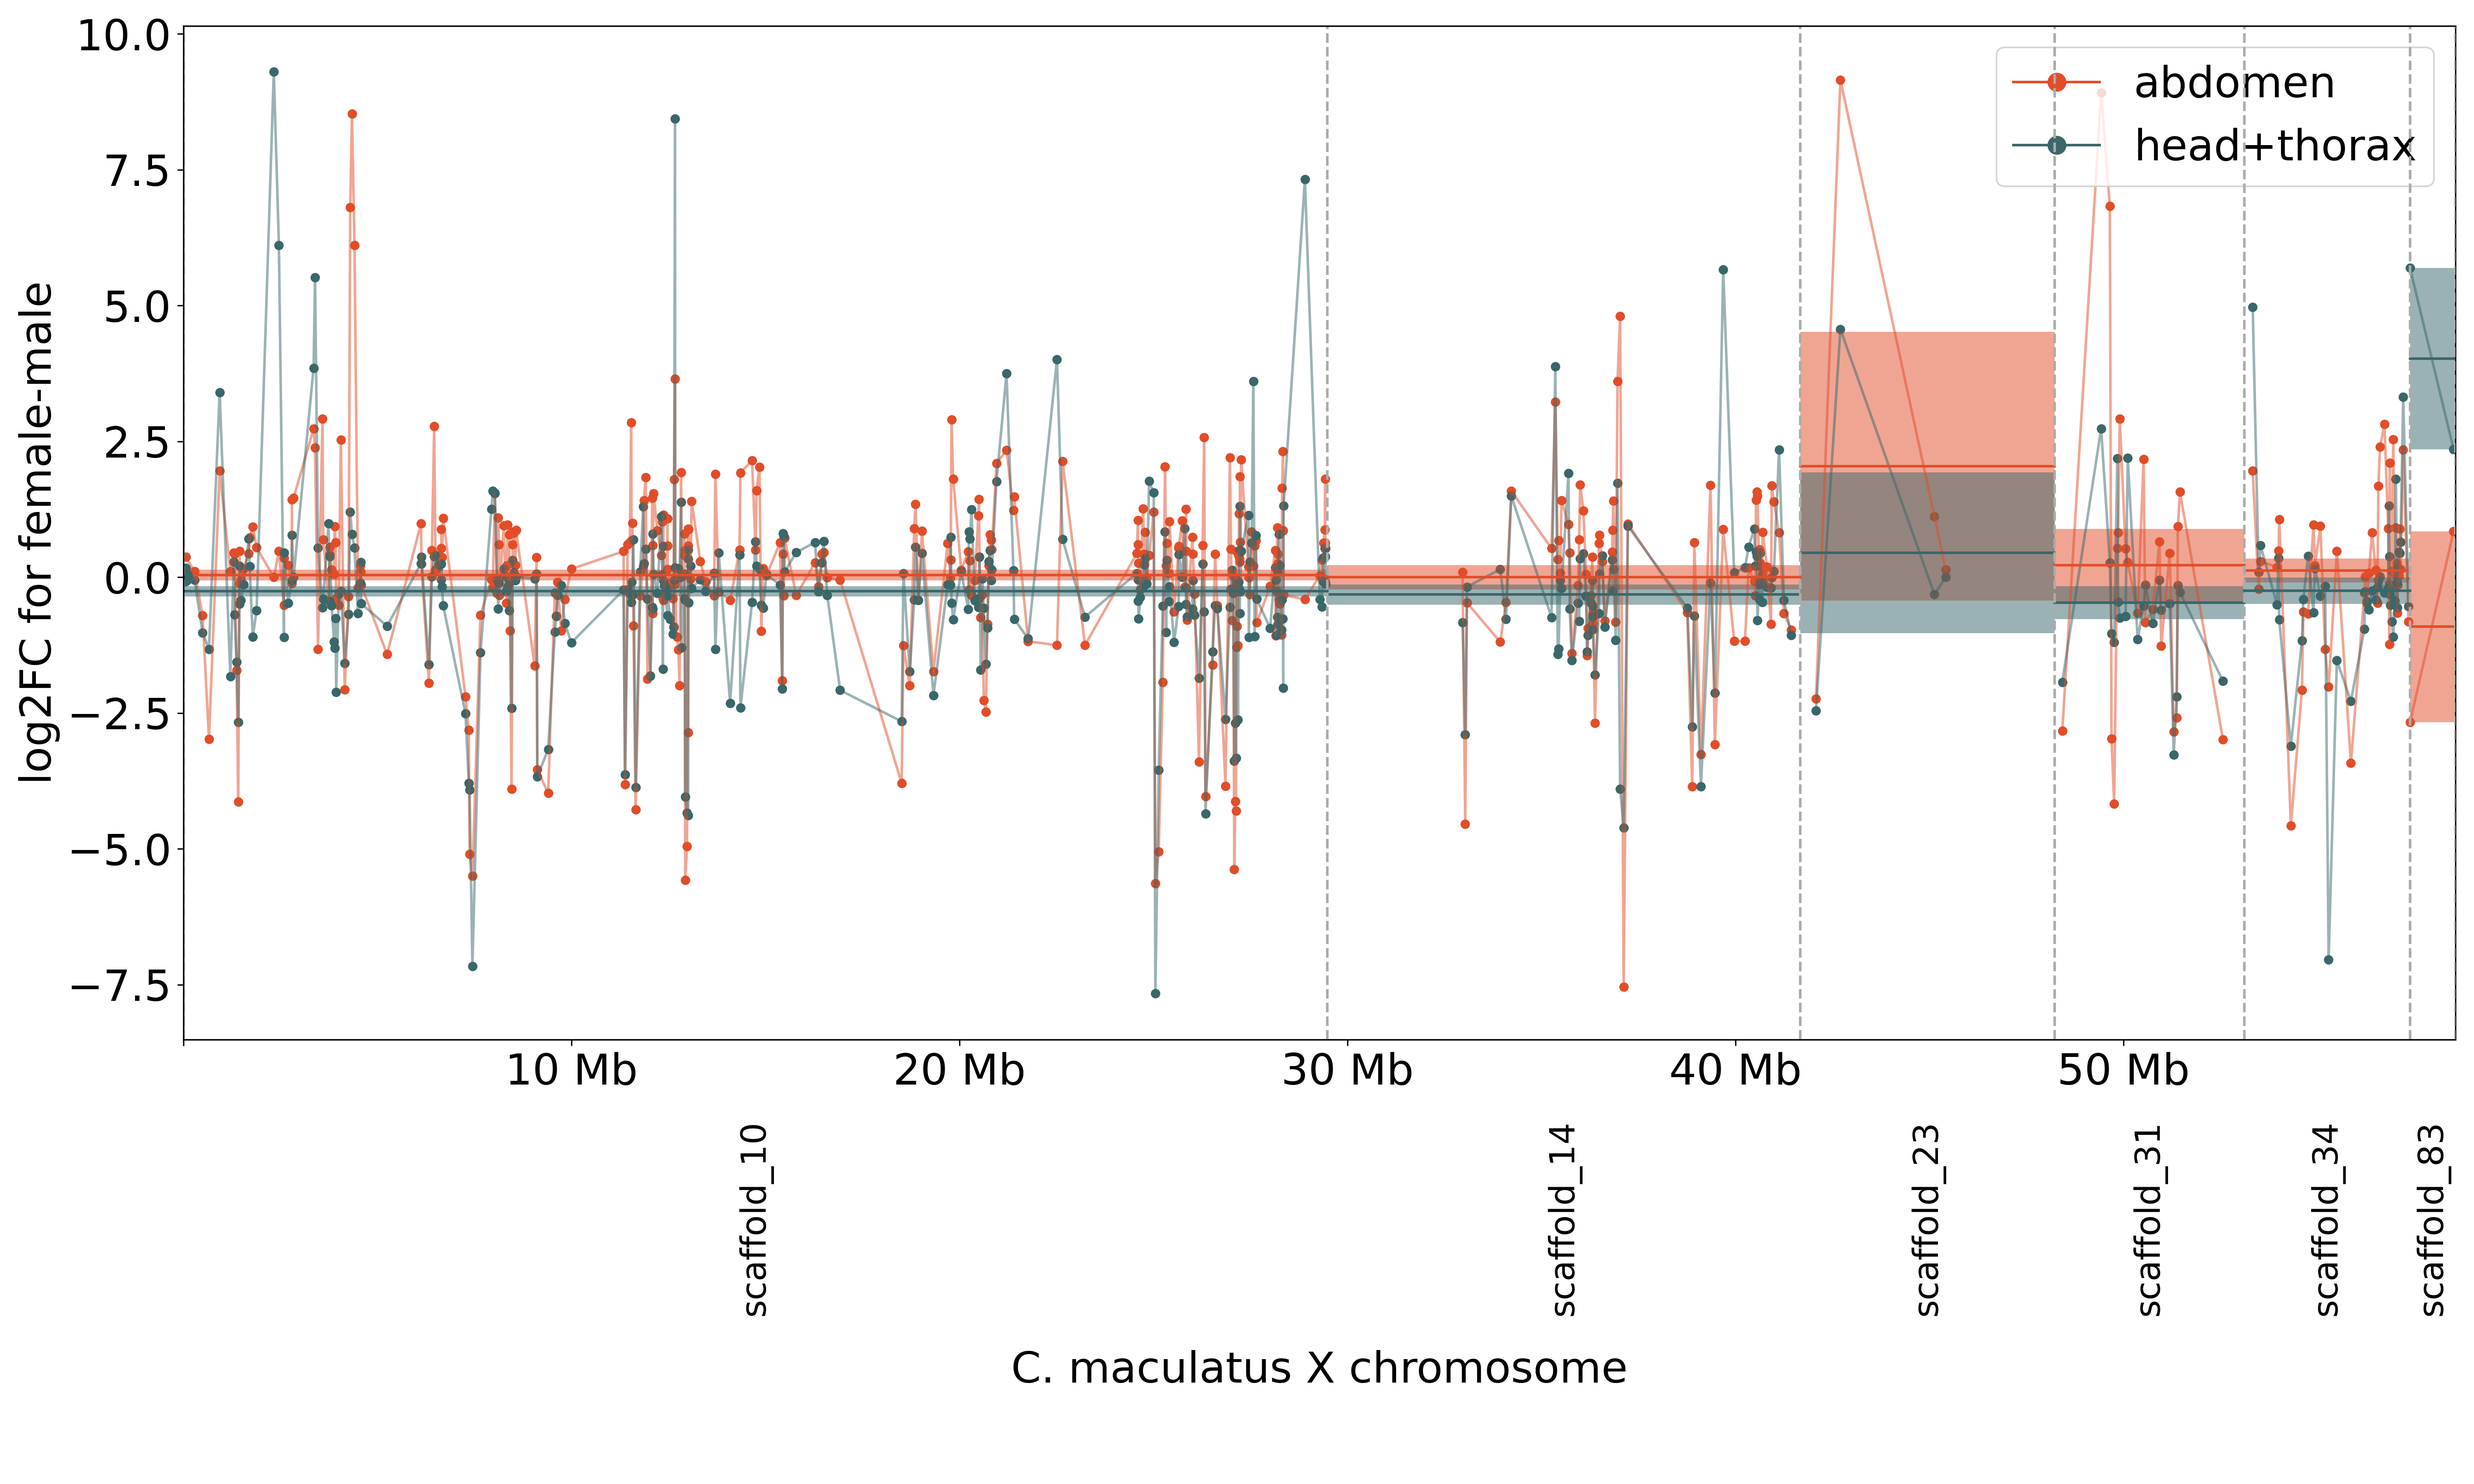
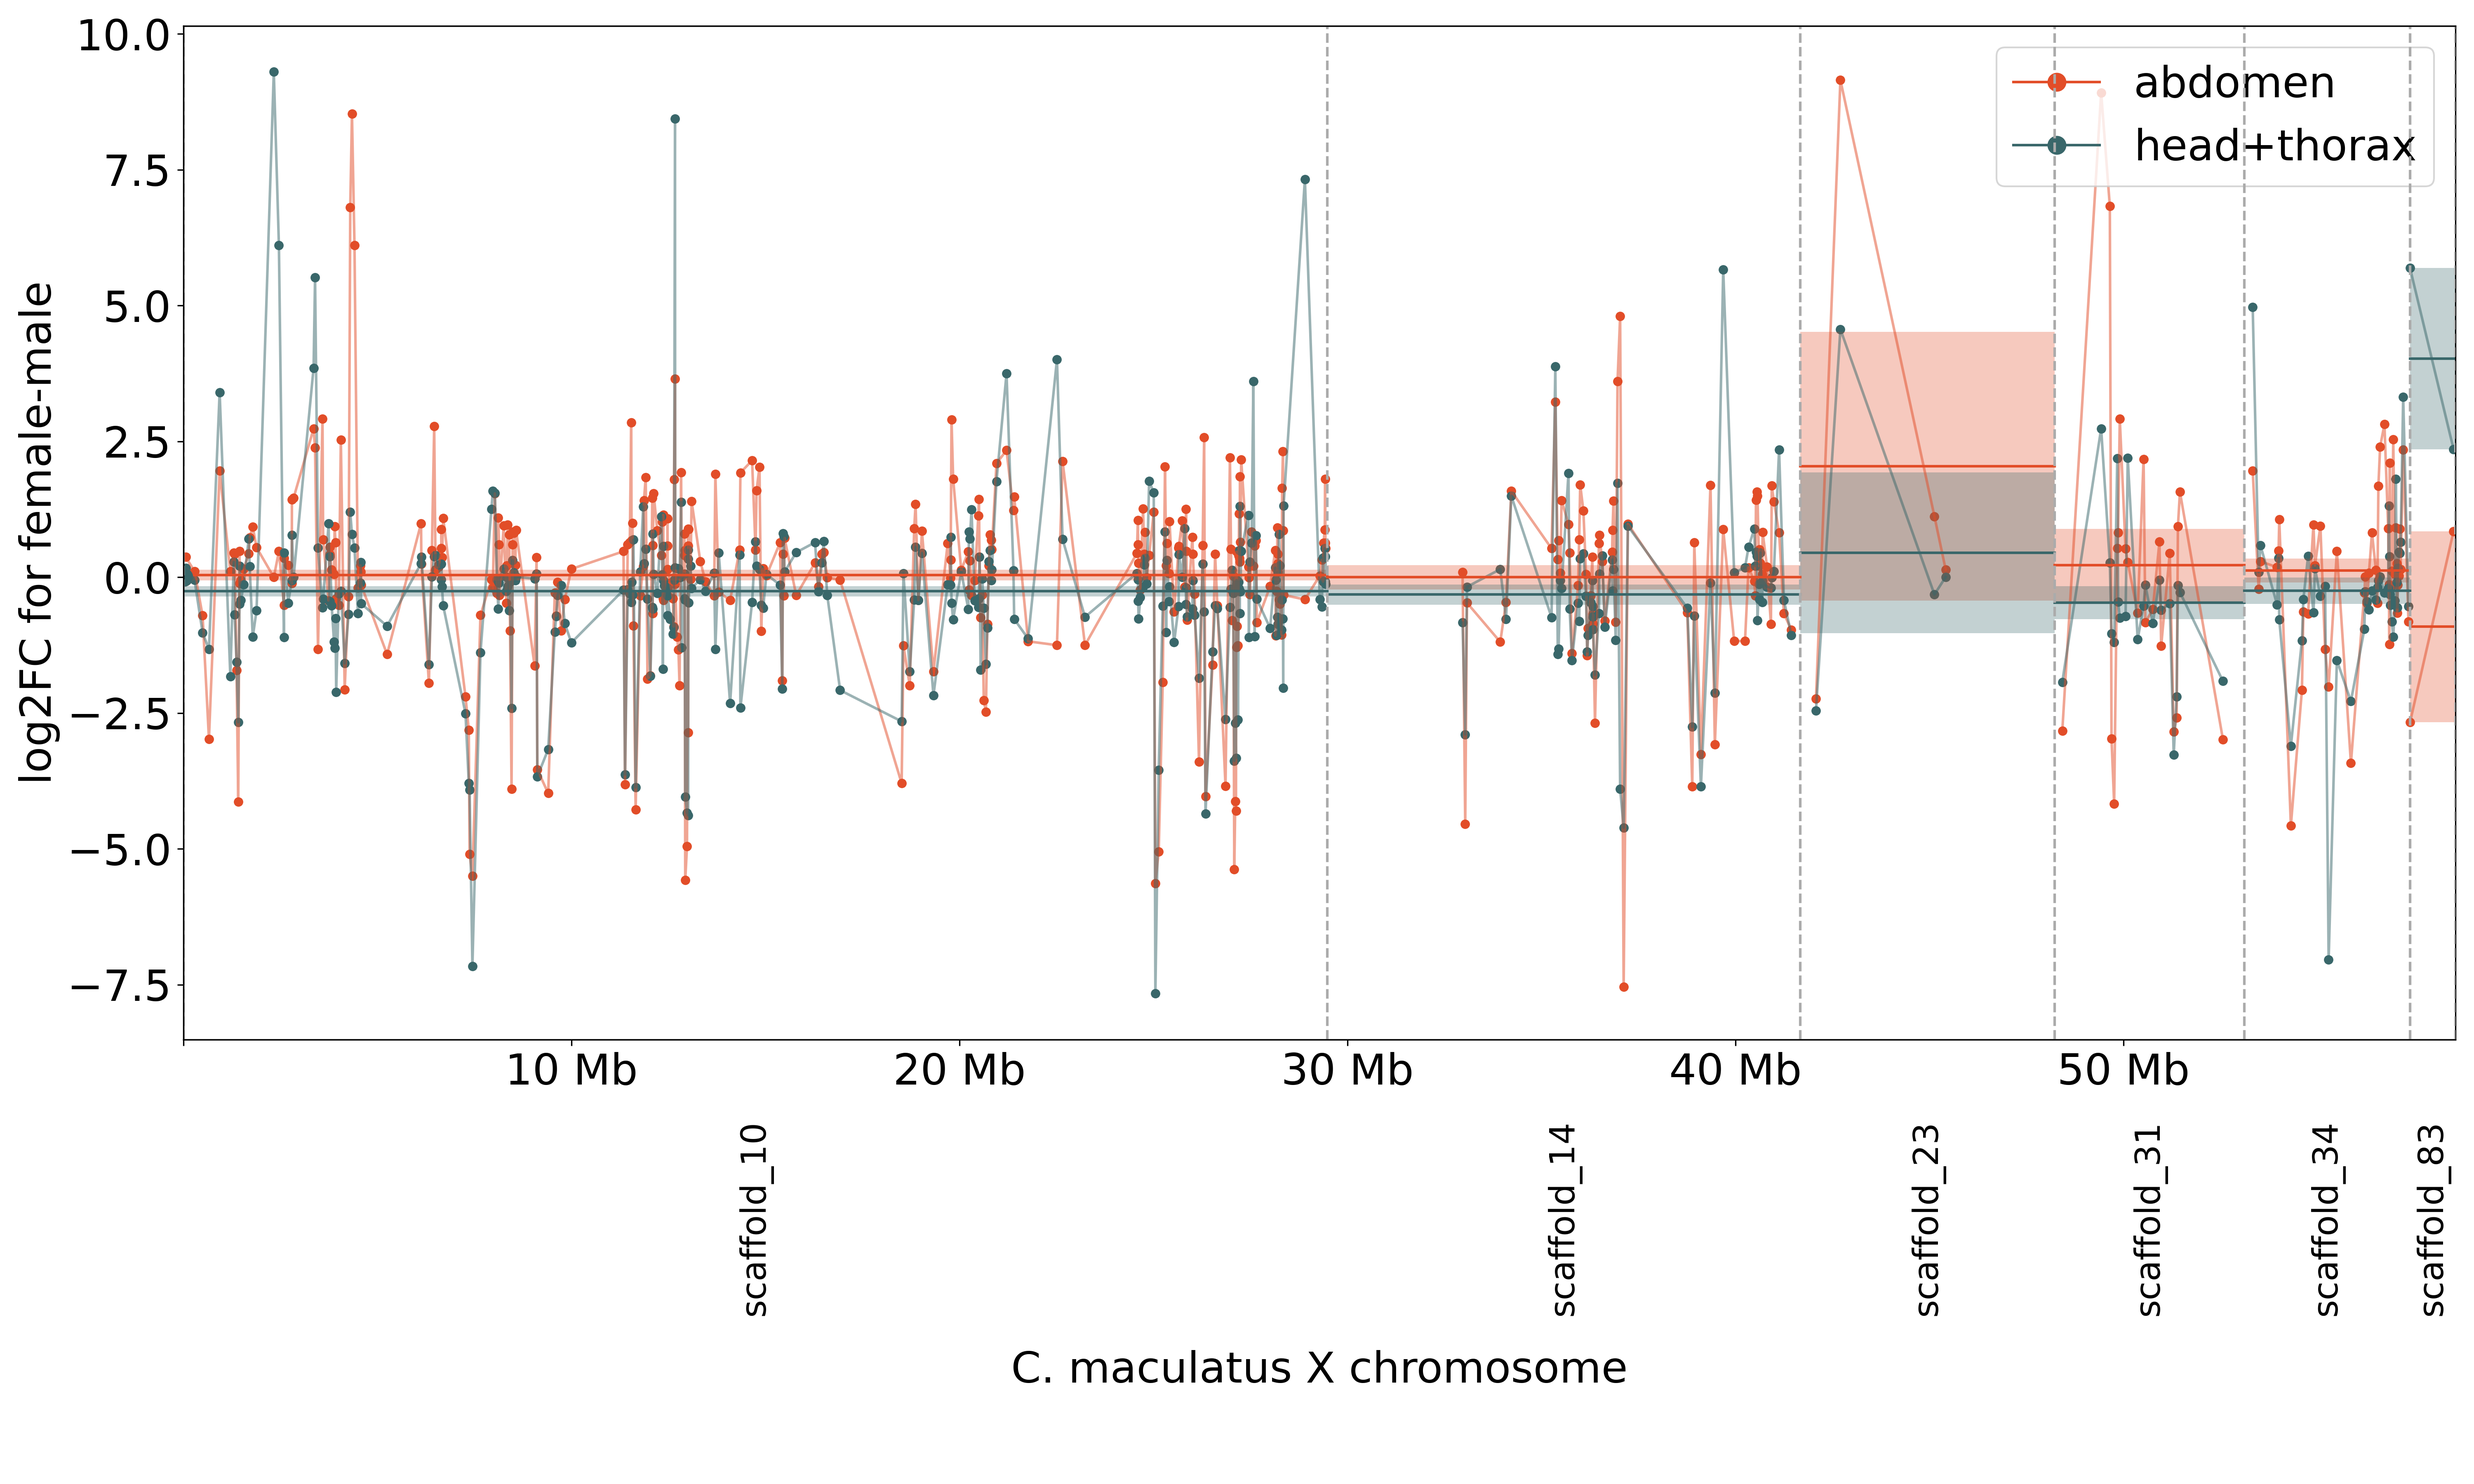
edit plot

Changed region(s): [[0.2805, 0.2178, 0.9973, 0.4978], [0.0623, 0.3733, 0.2493, 0.4044], [0.9662, 0.1556, 0.9973, 0.3111]]

diff --git a/src/analyze_DE_stuff.py b/src/analyze_DE_stuff.py
@@ -157,8 +157,8 @@ def plot_dosage_compensation(summary_paths, annotation, assembly_index, X_list, 
             print(f"\t * head+thorax mean log2FC: {ht_mean:.3f}, SEM: {ht_sem:.3f}")
             ax.axhline(y=a_mean, xmin=mean_min/total_x_length, xmax=mean_max/total_x_length, color=colors_dict["abdomen"], linestyle="-") 
             ax.axhline(y=ht_mean, xmin=mean_min/total_x_length, xmax=mean_max/total_x_length, color=colors_dict["head+thorax"], linestyle="-") 
-            ax.axhspan(ymin=a_mean-a_sem, ymax=a_mean+a_sem, xmin=mean_min/total_x_length, xmax=mean_max/total_x_length,color=colors_dict["abdomen"],  alpha=.5, linewidth = 0)
-            ax.axhspan(ymin=ht_mean-ht_sem, ymax=ht_mean+ht_sem, xmin=mean_min/total_x_length, xmax=mean_max/total_x_length, color=colors_dict["head+thorax"], alpha=.5, linewidth = 0)
+            ax.axhspan(ymin=a_mean-a_sem, ymax=a_mean+a_sem, xmin=mean_min/total_x_length, xmax=mean_max/total_x_length,color=colors_dict["abdomen"],  alpha=0.3, linewidth = 0)
+            ax.axhspan(ymin=ht_mean-ht_sem, ymax=ht_mean+ht_sem, xmin=mean_min/total_x_length, xmax=mean_max/total_x_length, color=colors_dict["head+thorax"], alpha=0.3, linewidth = 0)
 
 
     ## set x axis labels and ticks correctly with contig names and stuff
@@ -202,7 +202,7 @@ def plot_dosage_compensation(summary_paths, annotation, assembly_index, X_list, 
 
 def plot_sex_bias_bar_chart(summary_paths, annotation, X_list, sig_p_level = 0.001, minLFC = 1,outfile = ""):
     """
-    plot a bar chart to show proportion of significantly male or female biased genes on X or A chromosome
+0 3  plot a bar chart to show proportion of significantly male or female biased genes on X or A chromosome
     """
 
     summary_data_abdomen = pd.read_csv(summary_paths["abdomen"], sep = "\t", index_col=False)
@@ -394,12 +394,12 @@ if __name__ == "__main__":
     DE_paths = get_DE_paths(username=username)
     Cmac_X_contigs_list = get_Cmac_superscaffolded_XY_contigs()["X"]
 
-    if False:
+    if True:
         plot_dosage_compensation(summary_paths=DE_paths, annotation=Cmac_annotation, assembly_index=Cmac_assembly, 
             X_list=Cmac_X_contigs_list, 
             outfile=f"/Users/{username}/work/PhD_code/PhD_chapter3/data/DE_analysis/X_sex_bias.png")
 
-    if True:
+    if False:
         plot_sex_bias_bar_chart(summary_paths=DE_paths, annotation=Cmac_annotation, X_list=Cmac_X_contigs_list, 
             sig_p_level = 0.05, minLFC = 0.5,
             outfile=f"/Users/{username}/work/PhD_code/PhD_chapter3/data/DE_analysis/all_sex_bias_proportion.png")
